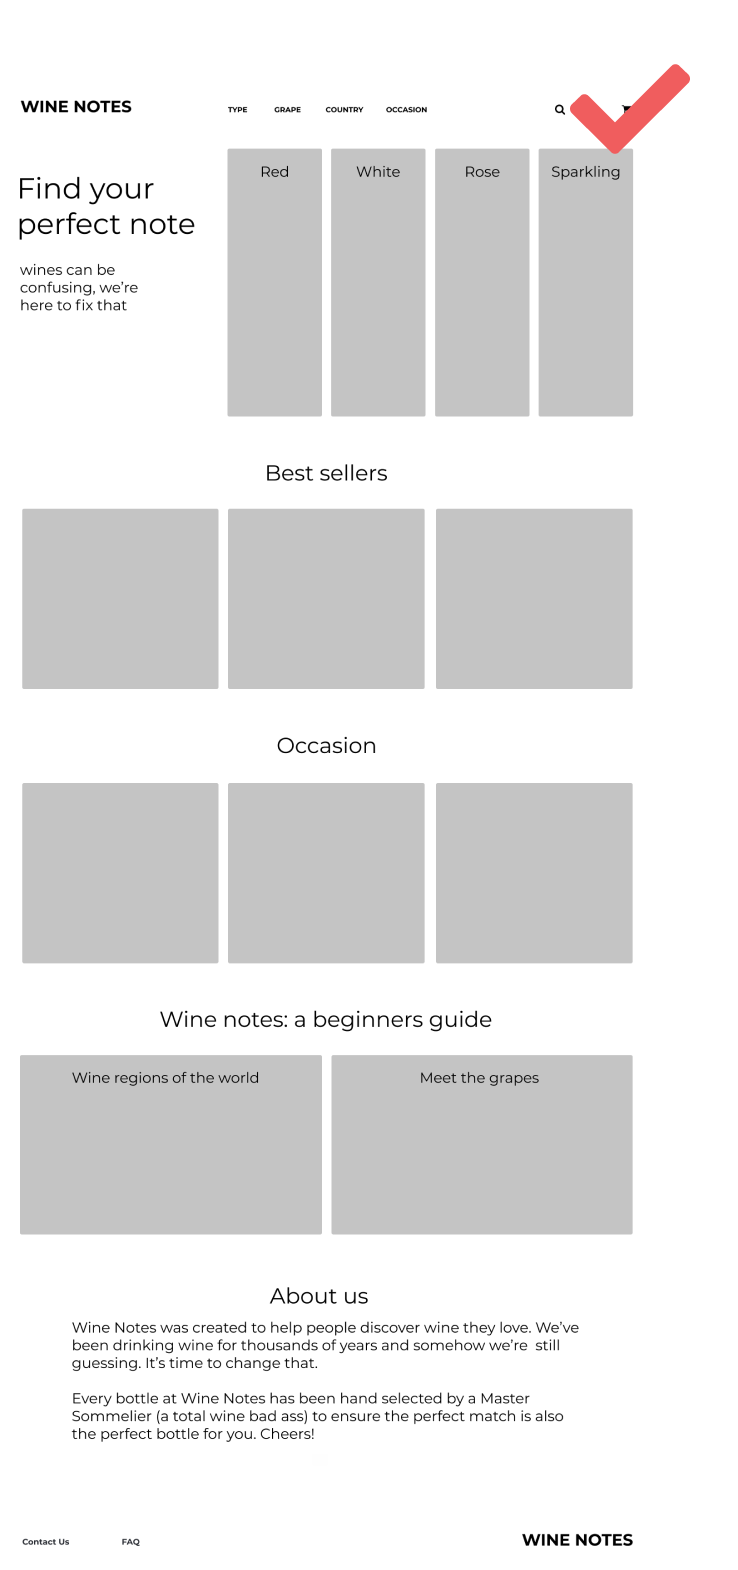
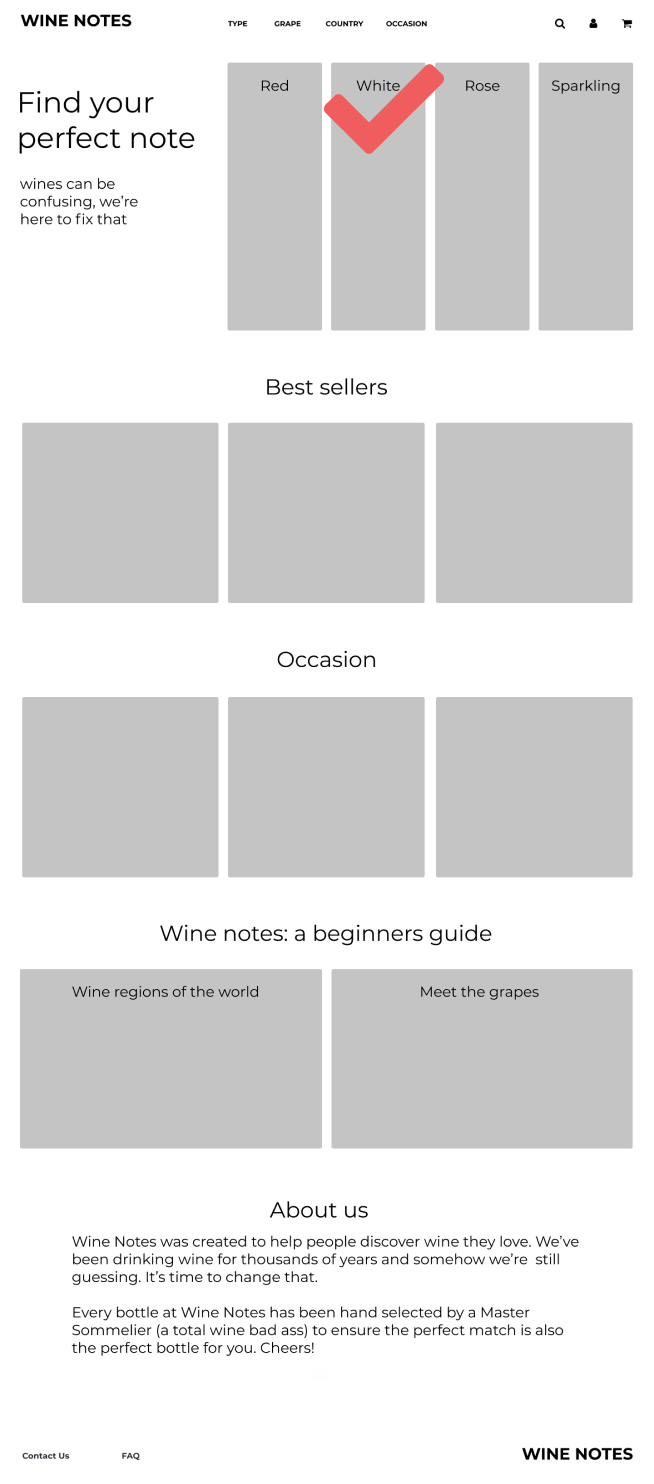
added lofi wireframe tests to wn

diff --git a/wine-notes.html b/wine-notes.html
@@ -344,19 +344,14 @@
 
 <div class="test-wrapper">
     <div class="test-grid">
-        <div class="test-l">
-            <img src="images/wn-images/v1.png"/>
-            <p>Popular content focused</p>
-            <img src="images/wn-images/test1-1.png"/>
-        </div>
-        <div class="test-m">
-            <p>vs</p>
-        </div>
-        <div class="test-r">
-            <img src="images/wn-images/v2.png"/>
-            <p>Testing focused</p>
-            <img src="images/wn-images/test1-2.png"/>
-        </div>
+            <img class="version v1" src="images/wn-images/v1.png"/>
+            <p class"pl">Popular content focused</p>
+            <img class="img-v1" src="images/wn-images/test1-1.png"/>
+            <p class="pc">vs</p>
+            <img class="version v2" src="images/wn-images/v2.png"/>
+            <p class="pr">Testing focused</p>
+            <img class="img-v2" src="images/wn-images/test1-2.png"/>
+
     </div>
 </div>
 
@@ -389,6 +384,13 @@
     </div>
 </div>
 
+<!--- DIVIDER --------------->
+<div class="wine-divider bg-blue-d">
+    <img class="lofi1" src="images/wn-images/lofi1.png" alt="Homepage Screen"/>
+    <img class="lofi2" src="images/wn-images/lofi2.png" alt="Product Screen"/>
+    <img class="lofi3" src="images/wn-images/lofi3.png" alt="Category Screen"/>
+</div>
+
 <div class="layout discovery-wrapper">
     <div class="discoveryh4">
         <h4>Testing lofi wireframes</h4>
@@ -417,6 +419,19 @@
         <p>
             I went back and sketched out a new onboarding experience and account page. From here users could directly view previous orders and leave reviews. Lesson learned: people leave reviews from their account page, not a product page.
         </p>
+    </div>
+</div>
+
+<div class="test-wrapper">
+    <div class="test-grid">
+            <img class="version v1" src="images/wn-images/v2.png"/>
+            <p class"pl">Popular content focused</p>
+            <img class="img-v1" src="images/wn-images/review1.png"/>
+            <p class="pc">vs</p>
+            <img class="version v2" src="images/wn-images/v2.png"/>
+            <p class="pr">Testing focused</p>
+            <img class="img-v2" src="images/wn-images/review2.png"/>
+
     </div>
 </div>
 

diff --git a/css/winenotes.css b/css/winenotes.css
@@ -241,6 +241,9 @@ h4{
     display: grid;
     grid-template-columns: 1fr 1fr 1fr;
     height: 100vh;
+    overflow-x: hidden;
+    overflow-y: hidden;
+    position: relative;
 }
 
 .wine-divider img{
@@ -251,6 +254,7 @@ h4{
     box-shadow: 0px 4px 4px rgba(0, 0, 0, 0.25);
     transform: rotate(30deg);
 }
+
 
 /*<-------------------- Discovery Phase ----------------------->*/
 .discovery-intro{
@@ -488,16 +492,53 @@ max-width: 13rem;
 
 .test-grid{
     display: grid;
-    grid-template-columns: 1fr 1fr 1fr;
+    grid-template-columns: 40% 20% 40%;
     place-items: center center;
     max-width: 85%;
     margin: 0 auto;
 }
 
-.test-l{
-    place-items: center center;
-    margin: 0 auto;
+.version{
+    max-width: 4rem;
 }
+
+.v1{
+    grid-row: 1;
+    grid-column: 1;
+}
+
+.pl{
+    grid-row: 2;
+    grid-column: 1;
+}
+
+.img-v1{
+    grid-row: 3;
+    grid-column: 1;
+    max-width: 100%;
+    justify-content: flex-start;
+}
+
+.pc{
+    grid-row: 1;
+    grid-column: 2;
+}
+
+.v2{
+    grid-row: 1;
+    grid-column: 3;
+}
+
+.pr{
+    grid-row: 2;
+    grid-column: 3;
+}
+
+.img-v2{
+    grid-row: 3;
+    grid-column: 3;
+}
+
 
 .quote{
     max-width: 80%;
